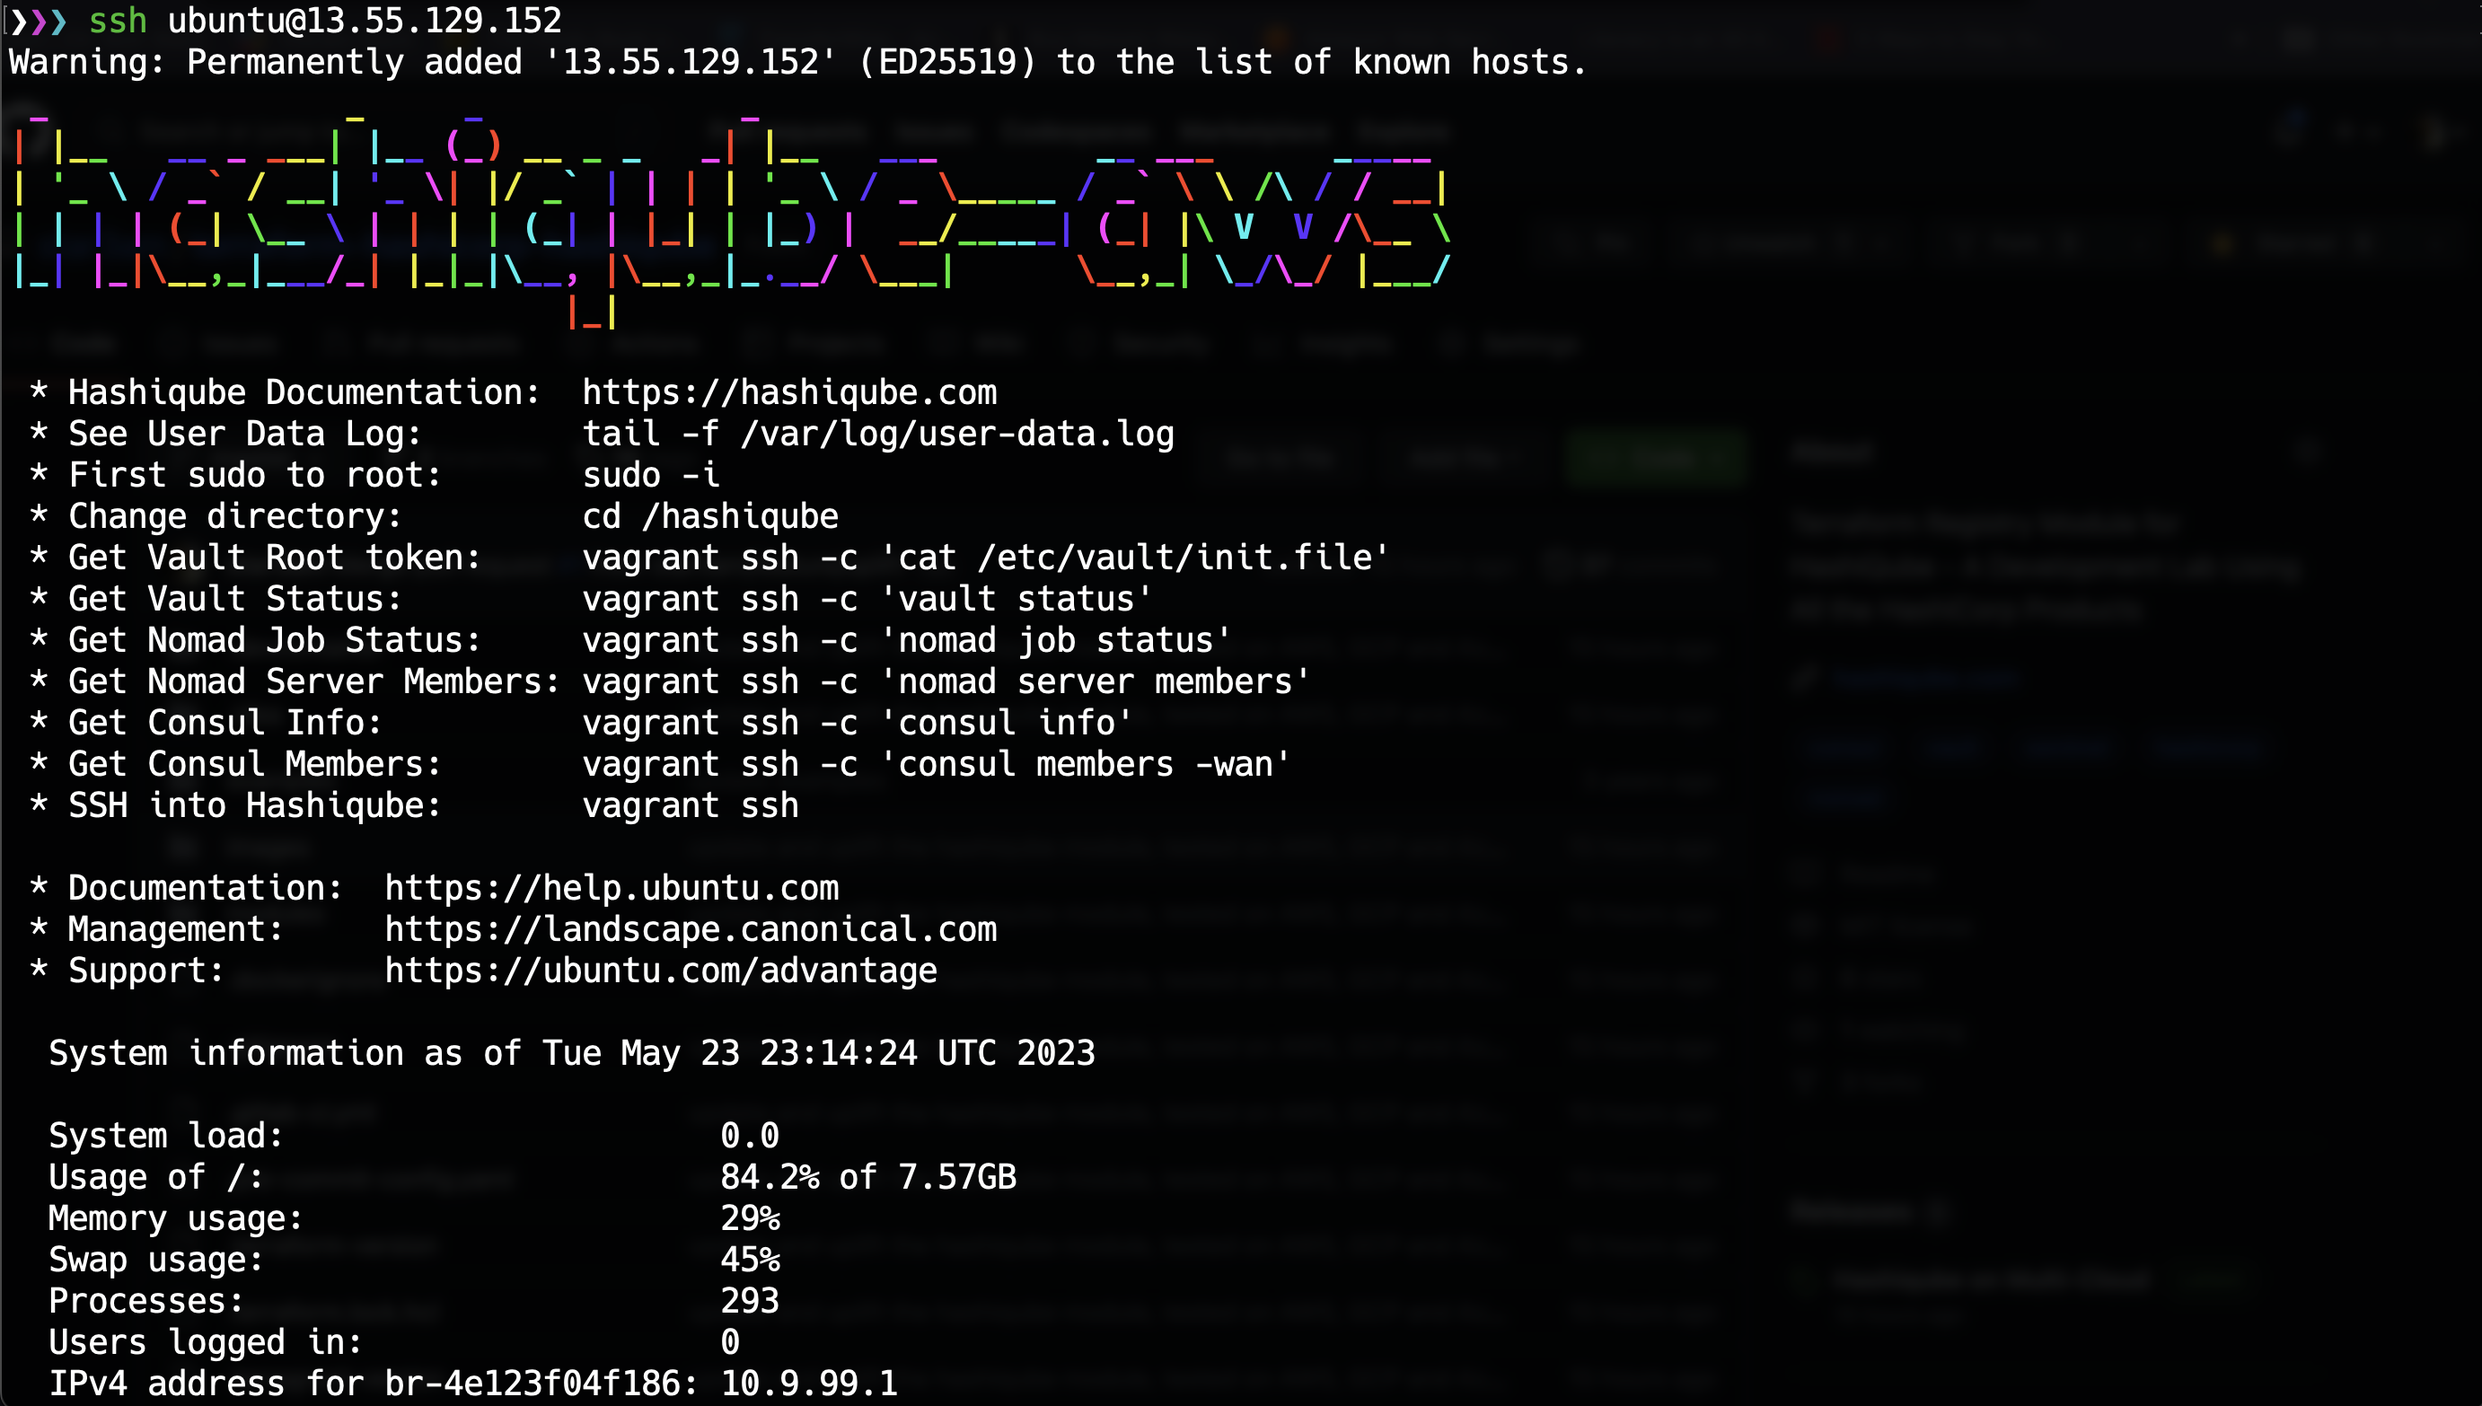
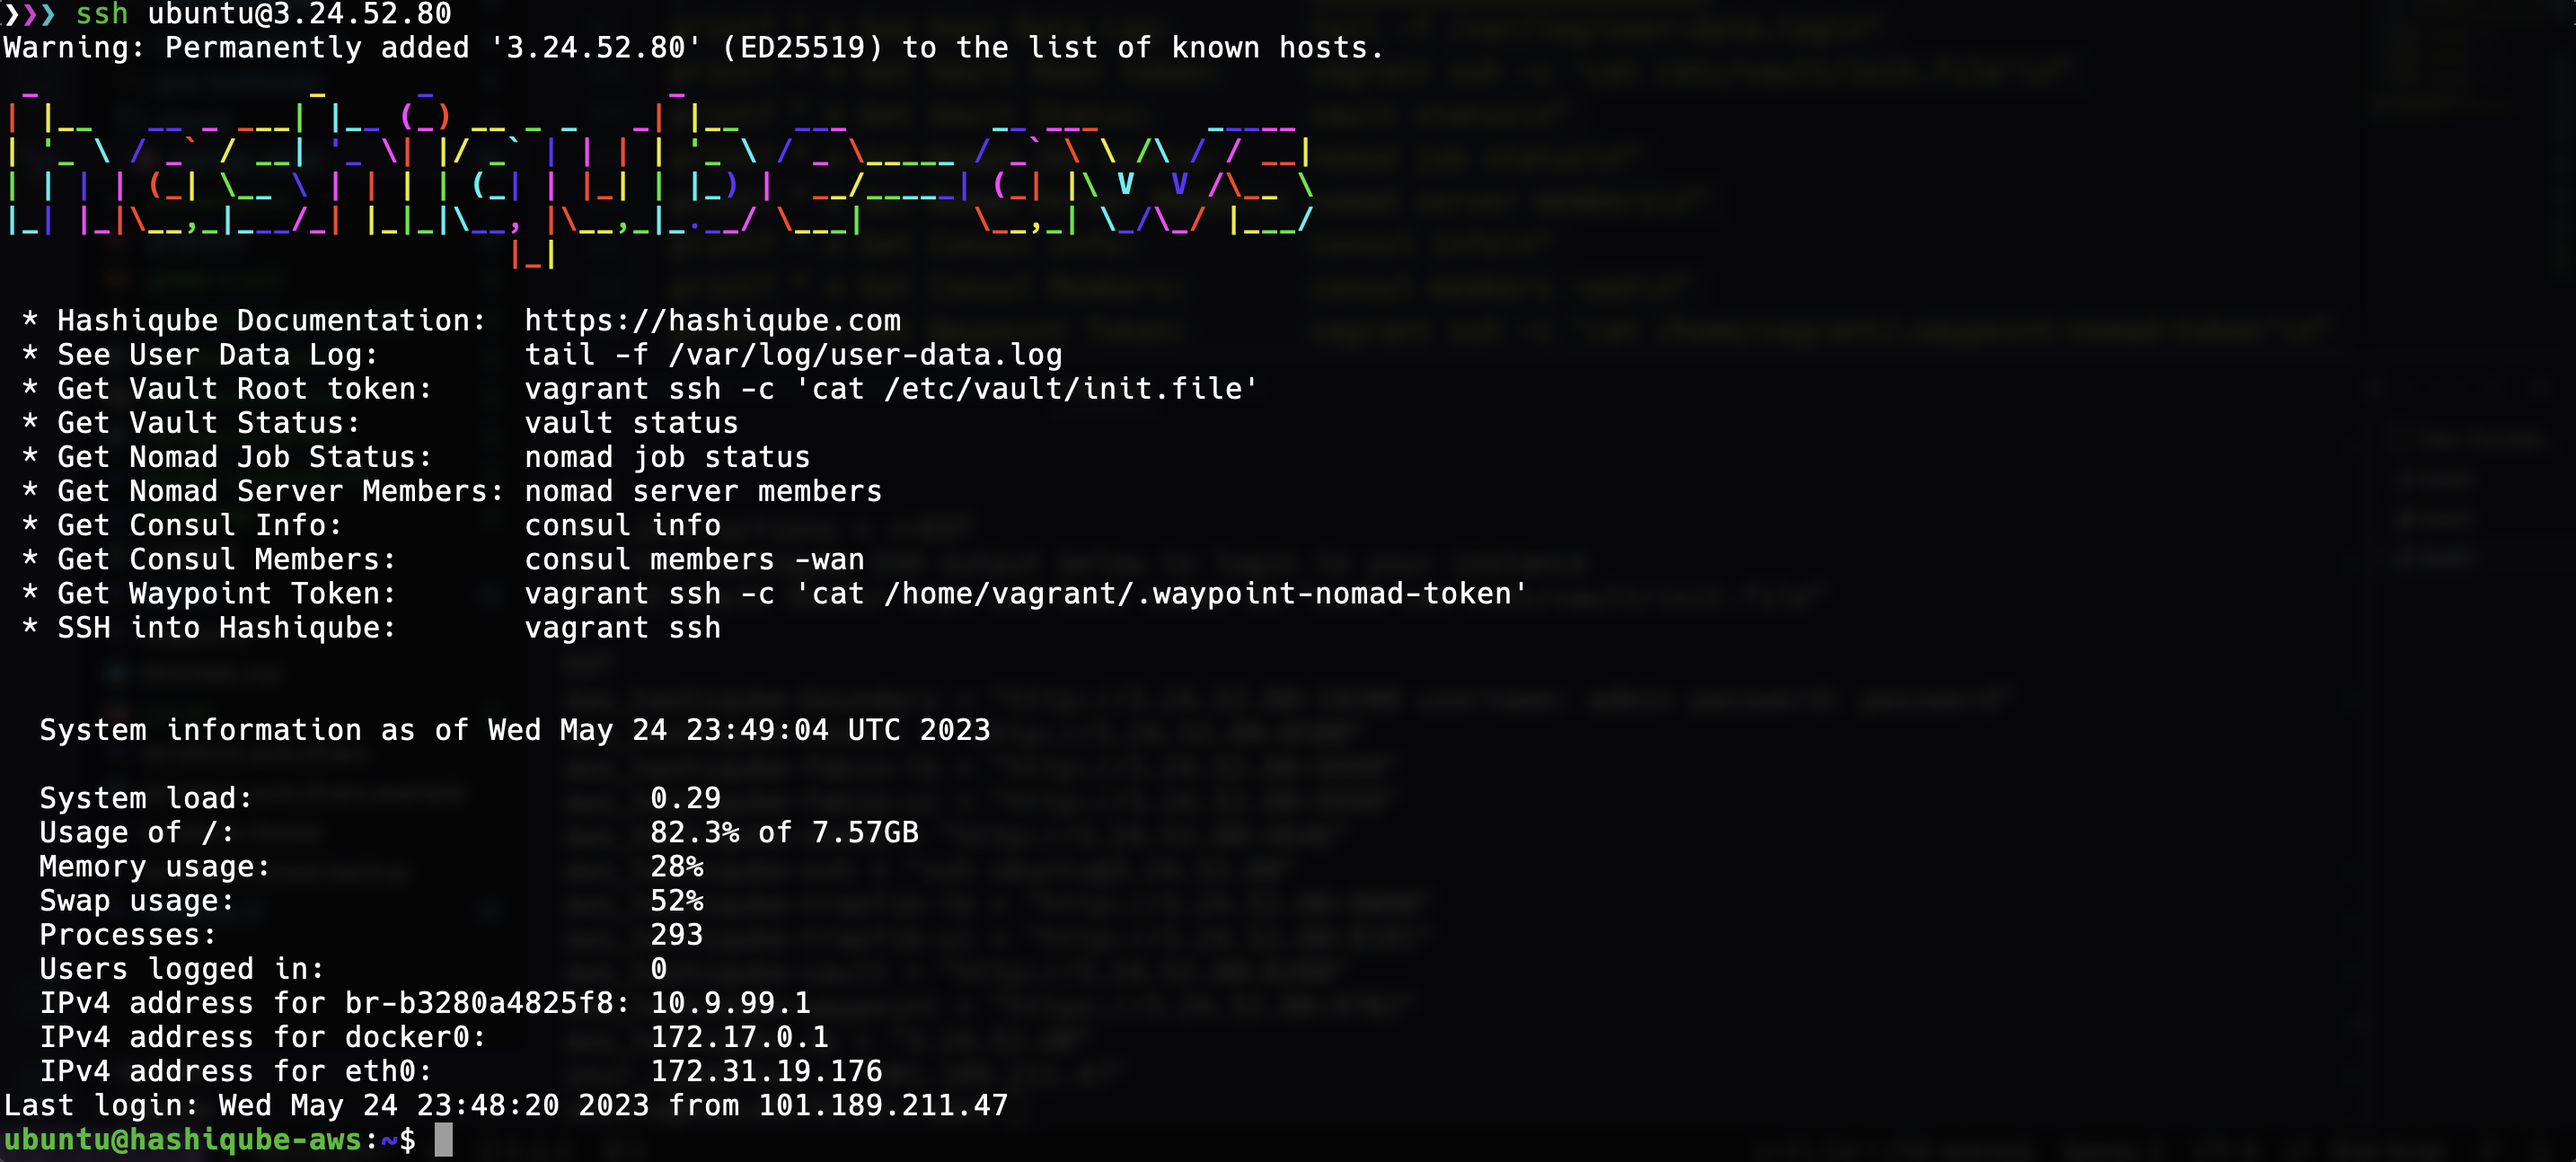
clone hashiqube as ubuntu user, use bash aliases to automagically vagrant ssh update screenshots and readme

diff --git a/README.md b/README.md
@@ -29,6 +29,28 @@ Give it a try and most of all have fun with this module, your feedback is always
 
 ![Hashiqube Integrations](images/logo-qube.png?raw=true "Hashiqube Integrations")
 
+## Basic concept
+The basic concept is, we spin up a cloud instance, we install `docker` and `vagrant` and we clone https://github.com/star3am/hashiqube into /home/ubuntu/hashiqube
+
+We then use vagrant to spin up Hashiqube as a docker container with all the Hashicorp tools inside of this docker container. So Vault, Nomad, Consul, Boundary and Waypoint actually runs inside a docker container on the cloud instance. 
+
+*ubuntu@hashiqube-aws:~$* `vagrant status`
+```
+Current machine states:
+
+hashiqube0.service.consul running (docker)
+
+The container is created and running. You can stop it using
+`vagrant halt`, see logs with `vagrant docker-logs`, and
+kill/destroy it with `vagrant destroy`.
+```
+
+*ubuntu@hashiqube-aws:~$* `docker ps`
+``` 
+CONTAINER ID   IMAGE          COMMAND            CREATED          STATUS          PORTS   NAMES
+f6bc621e730e   7b224f871e2a   "/usr/sbin/init"   58 minutes ago   Up 58 minutes   0.0.0.0:1433->1433/tcp, :::1433->1433/tcp, 0.0.0.0:3306->3306/tcp, :::3306->3306/tcp, 0.0.0.0:3333->3333/tcp, :::3333->3333/tcp, 0.0.0.0:4566->4566/tcp, :::4566->4566/tcp, 0.0.0.0:4646-4648->4646-4648/tcp, :::4646-4648->4646-4648/tcp, 0.0.0.0:5001-5002->5001-5002/tcp, :::5001-5002->5001-5002/tcp, 0.0.0.0:5432->5432/tcp, :::5432->5432/tcp, 0.0.0.0:7777->7777/tcp, :::7777->7777/tcp, 0.0.0.0:8000->8000/tcp, :::8000->8000/tcp, 0.0.0.0:8043->8043/tcp, :::8043->8043/tcp, 0.0.0.0:8080->8080/tcp, :::8080->8080/tcp, 0.0.0.0:8088->8088/tcp, :::8088->8088/tcp, 0.0.0.0:8181->8181/tcp, :::8181->8181/tcp, 0.0.0.0:8200->8200/tcp, :::8200->8200/tcp, 0.0.0.0:8300-8302->8300-8302/tcp, :::8300-8302->8300-8302/tcp, 0.0.0.0:8500->8500/tcp, :::8500->8500/tcp, 0.0.0.0:8888-8889->8888-8889/tcp, :::8888-8889->8888-8889/tcp, 0.0.0.0:9001-9002->9001-9002/tcp, :::9001-9002->9001-9002/tcp, 0.0.0.0:9011->9011/tcp, :::9011->9011/tcp, 0.0.0.0:9022->9022/tcp, :::9022->9022/tcp, 0.0.0.0:9701-9702->9701-9702/tcp, :::9701-9702->9701-9702/tcp, 0.0.0.0:9998-9999->9998-9999/tcp, :::9998-9999->9998-9999/tcp, 0.0.0.0:10888->10888/tcp, :::10888->10888/tcp, 0.0.0.0:18080->18080/tcp, :::18080->18080/tcp, 0.0.0.0:18181->18181/tcp, :::18181->18181/tcp, 0.0.0.0:18888-18889->18888-18889/tcp, :::18888-18889->18888-18889/tcp, 0.0.0.0:19200->19200/tcp, :::19200->19200/tcp, 0.0.0.0:19701-19702->19701-19702/tcp, :::19701-19702->19701-19702/tcp, 0.0.0.0:28080->28080/tcp, :::28080->28080/tcp, 0.0.0.0:31506->31506/tcp, :::31506->31506/tcp, 0.0.0.0:8600->8600/udp, :::8600->8600/udp, 0.0.0.0:2255->22/tcp, :::2255->22/tcp, 0.0.0.0:33389->389/tcp, :::33389->389/tcp   hashiqube_hashiqube0serviceconsul_1684968900
+```
+
 ## Quickstart
 - Download and Install VSCode https://code.visualstudio.com/
 - Install the VSCode Remote Containers extension https://code.visualstudio.com/docs/devcontainers/containers
@@ -99,10 +121,23 @@ After your Hashiqube instances has been launched you can access them by using th
 
 ![Hashiqube Access](images/hashiqube-first-login.png?raw=true "Hashiqube Access")
 
+## Voodoo you should be aware of
+I use `~/.bash_aliases` file to make it easier to interact with Hashicorp tools running in the hashiqube docker container. 
+
+```
+ubuntu@hashiqube-aws:~$ cat ~/.bash_aliases 
+alias vagrant='cd /home/ubuntu/hashiqube; vagrant'
+nomad() { cd /home/ubuntu/hashiqube; vagrant ssh -c "nomad $1 $2 $3 $4 $5" ;}
+consul() { cd /home/ubuntu/hashiqube; vagrant ssh -c "consul $1 $2 $3 $4 $5" ;}
+vault() { cd /home/ubuntu/hashiqube; vagrant ssh -c "vault $1 $2 $3 $4 $5" ;}
+```
+
+:bulb: Meaning that when you issue the command `vault` or `nomad` or `consul` it is ACTUALLY executed via `vagrant ssh -c $command` this is just to make things a bit easier for you, of course, you can still use the `vagrant ssh -c "vault status` like you'd normally do.
+
 You can then interact with Hashicorp's Services running in Hashiqube, for example:
 
 Get Vault status
-*root@hashiqube-aws:/hashiqube#* `vagrant ssh -c 'vault status'`
+*ubuntu@hashiqube-aws:~/hashiqube#* `vault status`
 ```
 Key             Value
 ---             -----
@@ -119,9 +154,28 @@ Cluster ID      4731c701-5575-be22-6678-8ba210f7f045
 HA Enabled      false
 Connection to 127.0.0.1 closed.
 ```
+Or normally via `vagrant ssh -c` like below
+
+*ubuntu@hashiqube-aws:~/hashiqube$* `vagrant ssh -c "vault status"`
+```
+Key             Value
+---             -----
+Seal Type       shamir
+Initialized     true
+Sealed          false
+Total Shares    5
+Threshold       3
+Version         1.13.2
+Build Date      2023-04-25T13:02:50Z
+Storage Type    file
+Cluster Name    vault
+Cluster ID      114f0631-9c5b-df15-71ec-9740776d8693
+HA Enabled      false
+Connection to 127.0.0.1 closed.
+```
 
 Get Nomad Job Status
-*root@hashiqube-aws:/hashiqube#* `vagrant ssh -c 'nomad job status'`
+*ubuntu@hashiqube-aws:~/hashiqube#* `nomad job status`
 ```
 ID                                            Type     Priority  Status   Submit Date
 fabio                                         system   50        running  2023-05-23T22:59:55Z
@@ -134,7 +188,7 @@ Connection to 127.0.0.1 closed.
 ```
 
 Get Nomad Server Members
-*root@hashiqube-aws:/hashiqube#* `vagrant ssh -c 'nomad server members'`
+*ubuntu@hashiqube-aws:~/hashiqube#* `nomad server members`
 ```
 Name                                   Address     Port  Status  Leader  Raft Version  Build  Datacenter  Region
 hashiqube-aws.service.consul.global    10.9.99.11  5648  alive   true    3             1.5.6  aws         global
@@ -144,7 +198,7 @@ Connection to 127.0.0.1 closed.
 ```
 
 Get Consul Members
-*root@hashiqube-aws:/hashiqube#* `vagrant ssh -c 'consul members -wan'`
+*ubuntu@hashiqube-aws:~/hashiqube#* `consul members -wan`
 ```
 Node                                  Address          Status  Type    Build   Protocol  DC     Partition  Segment
 hashiqube-aws.service.consul.aws      10.9.99.11:8302  alive   server  1.15.2  3         aws    default    <all>
@@ -155,7 +209,7 @@ Connection to 127.0.0.1 closed.
 
 Or simply access the Hashiqube container to interact freely with the Hashicorp Services, edit config files and so on
 
-*root@hashiqube-aws:/hashiqube#* `vagrant ssh`
+*ubuntu@hashiqube-aws:~/hashiqube#* `vagrant ssh`
 ```
  _               _     _             _                                                         _                                     _ 
 | |__   __ _ ___| |__ (_) __ _ _   _| |__   ___        __ ___      _____   ___  ___ _ ____   _(_) ___ ___   ___ ___  _ __  ___ _   _| |
@@ -172,7 +226,7 @@ vagrant@hashiqube-aws:~$
 ```
 
 Get Waypoint Token
-*root@hashiqube-aws:/hashiqube#* `vagrant ssh -c "cat /home/vagrant/.waypoint-nomad-token"`
+*ubuntu@hashiqube-aws:~/hashiqube#* `vagrant ssh -c "cat /home/vagrant/.waypoint-nomad-token"`
 ```
[1 lines of base64/hex data omitted]
 ```
